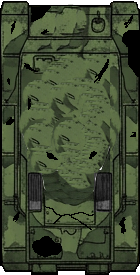
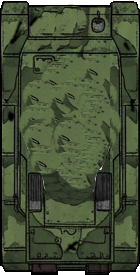
increase size of tanks. add sound effect alteration

diff --git a/src/GameDemo/RTSDemo/RTSSoundManager.java b/src/GameDemo/RTSDemo/RTSSoundManager.java
@@ -5,6 +5,7 @@ import Framework.Audio.ConcurrentSoundManager;
 import Framework.Audio.SoundEffect;
 import Framework.Main;
 import java.io.File;
+import java.util.List;
 
 /**
  *
@@ -26,38 +27,62 @@ public class RTSSoundManager {
 
     
     private static void registerSounds(ConcurrentSoundManager csm) {
-        csm.registerSoundEffect(
-                RIFLEMAN_ATTACK,
-                new SoundEffect(new File(Main.assets + "Sounds/machinegun.au")),
-                2, Main.ticksPerSecond);
-        csm.registerSoundEffect(
-                BAZOOKA_ATTACK,
-                new SoundEffect(new File(Main.assets + "Sounds/bazooka.au")),
-                3, Main.ticksPerSecond);
-        csm.registerSoundEffect(
-                TANK_ATTACK,
-                new SoundEffect(new File(Main.assets + "Sounds/blast4.6.wav")),
-                4, Main.ticksPerSecond);
-        csm.registerSoundEffect(
-                HELICOPTER_ATTACK,
-                new SoundEffect(new File(Main.assets + "Sounds/missileLaunch.au")),
-                4, Main.ticksPerSecond);
-        csm.registerSoundEffect(
-                LIGHT_TANK_ATTACK,
-                new SoundEffect(new File(Main.assets + "Sounds/armoredCarShooting5.wav")),
-                4, Main.ticksPerSecond);
-        csm.registerSoundEffect(
-                LANDMINE_EXPLOSION,
-                new SoundEffect(new File(Main.assets + "Sounds/explosion.au")),
-                5, Main.ticksPerSecond);
-        csm.registerSoundEffect(
-                TANK_DEATH,
-                new SoundEffect(new File(Main.assets + "Sounds/landmine explosion.wav")),
-                2, Main.ticksPerSecond);
-        csm.registerSoundEffect(
-                INFANTRY_DEATH,
-                new SoundEffect(new File(Main.assets + "Sounds/scream4.wav")),
-                2, Main.ticksPerSecond);
+        SoundEffect riflemanAttackBase = new SoundEffect(new File(Main.assets + "Sounds/machinegun.au"));
+        csm.registerSoundEffect(RIFLEMAN_ATTACK, List.of(
+                riflemanAttackBase,
+                riflemanAttackBase.createAlteredCopy(3.0),
+                riflemanAttackBase.createAlteredCopy(3.0),
+                riflemanAttackBase.createAlteredCopy(3.0)
+        ), 2, Main.ticksPerSecond);
+        SoundEffect bazookaAttackBase = new SoundEffect(new File(Main.assets + "Sounds/bazooka.au"));
+        csm.registerSoundEffect(BAZOOKA_ATTACK, List.of(
+                bazookaAttackBase,
+                bazookaAttackBase.createAlteredCopy(3.0),
+                bazookaAttackBase.createAlteredCopy(3.0),
+                bazookaAttackBase.createAlteredCopy(3.0)
+        ), 3, Main.ticksPerSecond);
+        SoundEffect tankAttackBase = new SoundEffect(new File(Main.assets + "Sounds/blast4.6.wav"));
+        csm.registerSoundEffect(TANK_ATTACK, List.of(
+                tankAttackBase,
+                tankAttackBase.createAlteredCopy(3.0),
+                tankAttackBase.createAlteredCopy(3.0),
+                tankAttackBase.createAlteredCopy(3.0)
+        ), 4, Main.ticksPerSecond);
+        SoundEffect helicopterAttackBase = new SoundEffect(new File(Main.assets + "Sounds/missileLaunch.au"));
+        csm.registerSoundEffect(HELICOPTER_ATTACK, List.of(
+                helicopterAttackBase,
+                helicopterAttackBase.createAlteredCopy(3.0),
+                helicopterAttackBase.createAlteredCopy(3.0),
+                helicopterAttackBase.createAlteredCopy(3.0)
+        ), 4, Main.ticksPerSecond);
+        SoundEffect lightTankAttackBase = new SoundEffect(new File(Main.assets + "Sounds/armoredCarShooting5.wav"));
+        csm.registerSoundEffect(LIGHT_TANK_ATTACK, List.of(
+                lightTankAttackBase,
+                lightTankAttackBase.createAlteredCopy(3.0),
+                lightTankAttackBase.createAlteredCopy(3.0),
+                lightTankAttackBase.createAlteredCopy(3.0)
+        ), 4, Main.ticksPerSecond);
+        SoundEffect landmineExplosionBase = new SoundEffect(new File(Main.assets + "Sounds/explosion.au"));
+        csm.registerSoundEffect(LANDMINE_EXPLOSION, List.of(
+                landmineExplosionBase,
+                landmineExplosionBase.createAlteredCopy(3.0),
+                landmineExplosionBase.createAlteredCopy(3.0),
+                landmineExplosionBase.createAlteredCopy(3.0)
+        ), 5, Main.ticksPerSecond);
+        SoundEffect tankDeathBase = new SoundEffect(new File(Main.assets + "Sounds/landmine explosion.wav"));
+        csm.registerSoundEffect(TANK_DEATH, List.of(
+                tankDeathBase,
+                tankDeathBase.createAlteredCopy(3.0),
+                tankDeathBase.createAlteredCopy(3.0),
+                tankDeathBase.createAlteredCopy(3.0)
+        ), 2, Main.ticksPerSecond);
+        SoundEffect infantryDeathBase = new SoundEffect(new File(Main.assets + "Sounds/scream4.wav"));
+        csm.registerSoundEffect(INFANTRY_DEATH, List.of(
+                infantryDeathBase,
+                infantryDeathBase.createAlteredCopy(3.0),
+                infantryDeathBase.createAlteredCopy(3.0),
+                infantryDeathBase.createAlteredCopy(3.0)
+        ), 2, Main.ticksPerSecond);
     }
     
     

diff --git a/src/Framework/Audio/ConcurrentSoundManager.java b/src/Framework/Audio/ConcurrentSoundManager.java
@@ -5,6 +5,7 @@ import Framework.Main;
 import java.awt.Graphics2D;
 import java.util.ArrayList;
 import java.util.HashMap;
+import java.util.List;
 
 /**
  * Manages concurrent sound effects in the game, handling multiple simultaneous
@@ -28,14 +29,14 @@ public class ConcurrentSoundManager extends IndependentEffect {
      */
     private static class SoundEffectProfile {
 
-        public transient SoundEffect soundEffect;
+        public transient List<SoundEffect> soundEffects;
         private int numPlaying = 0;
         public int maxConcurrent = 100;
         public int duration = Main.ticksPerSecond;
         private final transient ArrayList<Long> decrementTicks = new ArrayList<>();
 
-        public SoundEffectProfile(SoundEffect se, int maxConcurrent, int duration) {
-            this.soundEffect = se;
+        public SoundEffectProfile(List<SoundEffect> sounds, int maxConcurrent, int duration) {
+            this.soundEffects = sounds;
             this.maxConcurrent = maxConcurrent;
             this.duration = duration;
         }
@@ -99,11 +100,11 @@ public class ConcurrentSoundManager extends IndependentEffect {
      * @param tickDuration How many game ticks the sound effect should last
      */
     public void registerSoundEffect(String name, SoundEffect se, int maxConcurrent, int tickDuration) {
-        effectMap.put(name, new SoundEffectProfile(
-                se,
-                maxConcurrent,
-                tickDuration
-        ));
+        registerSoundEffect(name, List.of(se), maxConcurrent, tickDuration);
+    }
+
+    public void registerSoundEffect(String name, List<SoundEffect> variants, int maxConcurrent, int tickDuration) {
+        effectMap.put(name, new SoundEffectProfile(variants, maxConcurrent, tickDuration));
     }
 
     /**
@@ -127,7 +128,8 @@ public class ConcurrentSoundManager extends IndependentEffect {
             return;
         }
 
-        profile.soundEffect.playCopy(volume, msDelay);
+        SoundEffect chosen = profile.soundEffects.get(Main.generateRandomIntLocally(0, profile.soundEffects.size() - 1));
+        chosen.playCopy(volume, msDelay);
         profile.updateNumPlaying(1);
         profile.decrementTicks.add(tickNumber + msDelay);
     }

diff --git a/src/Framework/Audio/SoundEffect.java b/src/Framework/Audio/SoundEffect.java
@@ -470,4 +470,32 @@ public class SoundEffect implements Runnable{
     public boolean isDisabled(){
         return disabled;
     }
+    
+    /**
+     * use this function to create a copy of the sound but is randomly slightly altered. This is to be used if you have- for example an explosion sound effect
+     * that you want to reuse without every explosion sounding literally identical.
+     * this function should randomly alter pitch, speed, or distortion.
+     * @param intensity 0.0 = no alteration, 1.0 = full alteration (±8% pitch, ±5% volume)
+     * @return
+     */
+    public SoundEffect createAlteredCopy(double intensity) {
+        SoundEffect copy = createCopy();
+        int pitchRange = (int) Math.round(8 * intensity);
+        int volRange   = (int) Math.round(5 * intensity);
+        try {
+            FloatControl rateControl = (FloatControl) copy.clip.getControl(FloatControl.Type.SAMPLE_RATE);
+            float base = rateControl.getValue();
+            float variation = (pitchRange > 0 ? Main.generateRandomInt(-pitchRange, pitchRange) : 0) / 100f;
+            float newRate = base * (1f + variation);
+            newRate = Math.max(rateControl.getMinimum(), Math.min(rateControl.getMaximum(), newRate));
+            rateControl.setValue(newRate);
+        } catch (IllegalArgumentException e) {
+            // SAMPLE_RATE not supported by this audio line — pitch unchanged
+        }
+        float volVariation = (volRange > 0 ? Main.generateRandomInt(-volRange, volRange) : 0) / 100f;
+        float newVol = Math.max(0f, Math.min(1f, copy.getVolume() + volVariation));
+        copy.setVolume(newVol);
+        return copy;
+    }
+
 }

diff --git a/src/GameDemo/RTSDemo/Units/LightTank.java b/src/GameDemo/RTSDemo/Units/LightTank.java
@@ -29,7 +29,7 @@ public class LightTank extends RTSUnit {
     public static final double speed = RTSGame.tickAdjust(2.8);
     public static final double attackInterval = 1.6;
 
-    public static final double VISUAL_SCALE = .44;
+    public static final double VISUAL_SCALE = .48;
     
     public static volatile Sprite hullSprite = null;
     public static volatile Sprite turretSprite = null;
@@ -197,15 +197,11 @@ public class LightTank extends RTSUnit {
     }
     
     public void playAttackSound() {
-         String soundToPlay = RTSSoundManager.LIGHT_TANK_ATTACK;
-         int offset = Main.generateRandomIntLocally(0, 20);
-         
-         double volumeOnScreen = Main.generateRandomDoubleLocally(.70, .76);
-         
-         double volumeOffScreen = Main.generateRandomDoubleLocally(.64, .71);
-         
+        int offset = Main.generateRandomIntLocally(0, 20);
+        double volumeOnScreen = Main.generateRandomDoubleLocally(.70, .76);
+        double volumeOffScreen = Main.generateRandomDoubleLocally(.64, .71);
         RTSSoundManager.get().play(
-                soundToPlay,
+                RTSSoundManager.LIGHT_TANK_ATTACK,
                 isOnScreen() ? volumeOnScreen : volumeOffScreen,
                 offset);
     }

diff --git a/src/GameDemo/RTSDemo/SelectionBoxEffect.java b/src/GameDemo/RTSDemo/SelectionBoxEffect.java
@@ -18,6 +18,7 @@ import java.awt.Stroke;
 import java.util.HashSet;
 import java.util.List;
 import java.util.Set;
+import java.util.concurrent.CopyOnWriteArraySet;
 
 /**
  * draws the green rectangular selection box
@@ -29,7 +30,7 @@ public class SelectionBoxEffect extends IndependentEffect {
 
     private transient Game game;
 
-    public static Set<RTSUnit> selectedUnits = new HashSet<>();
+    public static Set<RTSUnit> selectedUnits = new CopyOnWriteArraySet<>();
     public static final Color uncontrollableColor = new Color(.5f, .5f, .5f, .8f);
     public static final Color selectionColor = new Color(0f, 1f, 0f, .8f);
     private static Rectangle selectionZone = null;
@@ -194,5 +195,4 @@ public class SelectionBoxEffect extends IndependentEffect {
         }
         return new Rectangle(selectionZone.x, selectionZone.y, selectionZone.width, selectionZone.height);
     }
-
 }

diff --git a/src/GameDemo/RTSDemo/RTSUnit.java b/src/GameDemo/RTSDemo/RTSUnit.java
@@ -312,9 +312,9 @@ public class RTSUnit extends GameObject2 {
         int extra = navSize == Tile.tileSizeFine ? 15 : 0;
         if(this instanceof Bazookaman) extra += 10;
         if(isInfantry) return 16 + extra;
-        if(this instanceof LightTank) return 50 + extra; 
+        if(this instanceof LightTank) return 60 + extra; 
         if(this.plane > 1) return 35 + extra; // helicopter
-        return 55 + extra; // med tank
+        return 65 + extra; // med tank
     }
 
     public void updateWaypoints() {

diff --git a/src/GameDemo/RTSDemo/Units/LightTankBullet.java b/src/GameDemo/RTSDemo/Units/LightTankBullet.java
@@ -37,7 +37,7 @@ public class LightTankBullet extends Projectile {
         shadow.scaleTo(.16);
         setScale(.16);
         this.setGraphic(bulletGraphic.copyMaintainSource());
-        baseSpeed = RTSGame.tickAdjust(16);
+        baseSpeed = RTSGame.tickAdjust(26);
         this.setHitbox(new Hitbox(this, 0)); //sets this to se a circular hitbox. updateHitbox() method manages radius for us so we set it to 0 by default
         maxRange = 600;
         startPosition = start;

diff --git a/src/GameDemo/RTSDemo/Units/TankUnit.java b/src/GameDemo/RTSDemo/Units/TankUnit.java
@@ -44,7 +44,7 @@ public class TankUnit extends RTSUnit {
     public static double speed = RTSGame.tickAdjust(2.15);
 
     public Turret turret;
-    public final static double VISUAL_SCALE = .4;
+    public final static double VISUAL_SCALE = .50;
     public long weaponCooldownExpiresAtTick = 0;
     public long lastTickTakenDamage = 0;
     public boolean sandbagActive = false;
